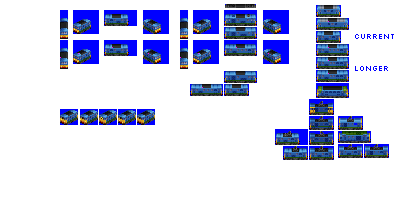
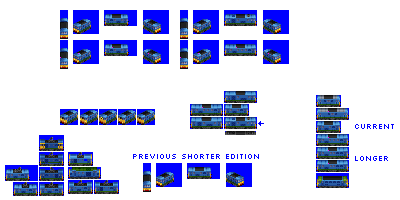
Change: WIP on smaller electric locos rework - sprites, stats, add Zest industrial electric

diff --git a/src/rosters/pony.py b/src/rosters/pony.py
@@ -108,7 +108,6 @@ from vehicles import snowplough_pony_gen_2
 from vehicles import spinner
 from vehicles import stentor
 from vehicles import stoat
-from vehicles import stoat2
 from vehicles import streamer
 from vehicles import strongbow
 from vehicles import sunshine_coast
@@ -131,6 +130,7 @@ from vehicles import westbourne
 from vehicles import workish
 from vehicles import wyvern
 from vehicles import zebedee
+from vehicles import zest
 from vehicles import zeus
 from vehicles import zorro
 
@@ -364,7 +364,7 @@ def main(disabled=False):
             captain_steel,
             goliath,
             stoat,
-            stoat2,
+            zest,
             # freight
             hercules,
             braf,

diff --git a/src/vehicles/zest.py b/src/vehicles/zest.py
@@ -4,9 +4,9 @@ from train import EngineConsist, ElectricEngineUnit
 def main(roster_id):
     consist = EngineConsist(
         roster_id=roster_id,
-        id="stoat2",
+        id="zest",
         base_numeric_id=5470,
-        name="Stoat 2",
+        name="Zest",
         role="branch_freight",
         role_child_branch_num=2,
         power=1600,

diff --git a/src/vehicles/booster.py b/src/vehicles/booster.py
@@ -23,7 +23,7 @@ def main(roster_id):
     )
 
     consist.description = (
-        """Zoooom."""
+        """I've rebuilt some of the Argus fleet to be more handy. Now we're sucking diesel."""
     )
     consist.foamer_facts = """BR Class 71/74, Class 73"""
 
